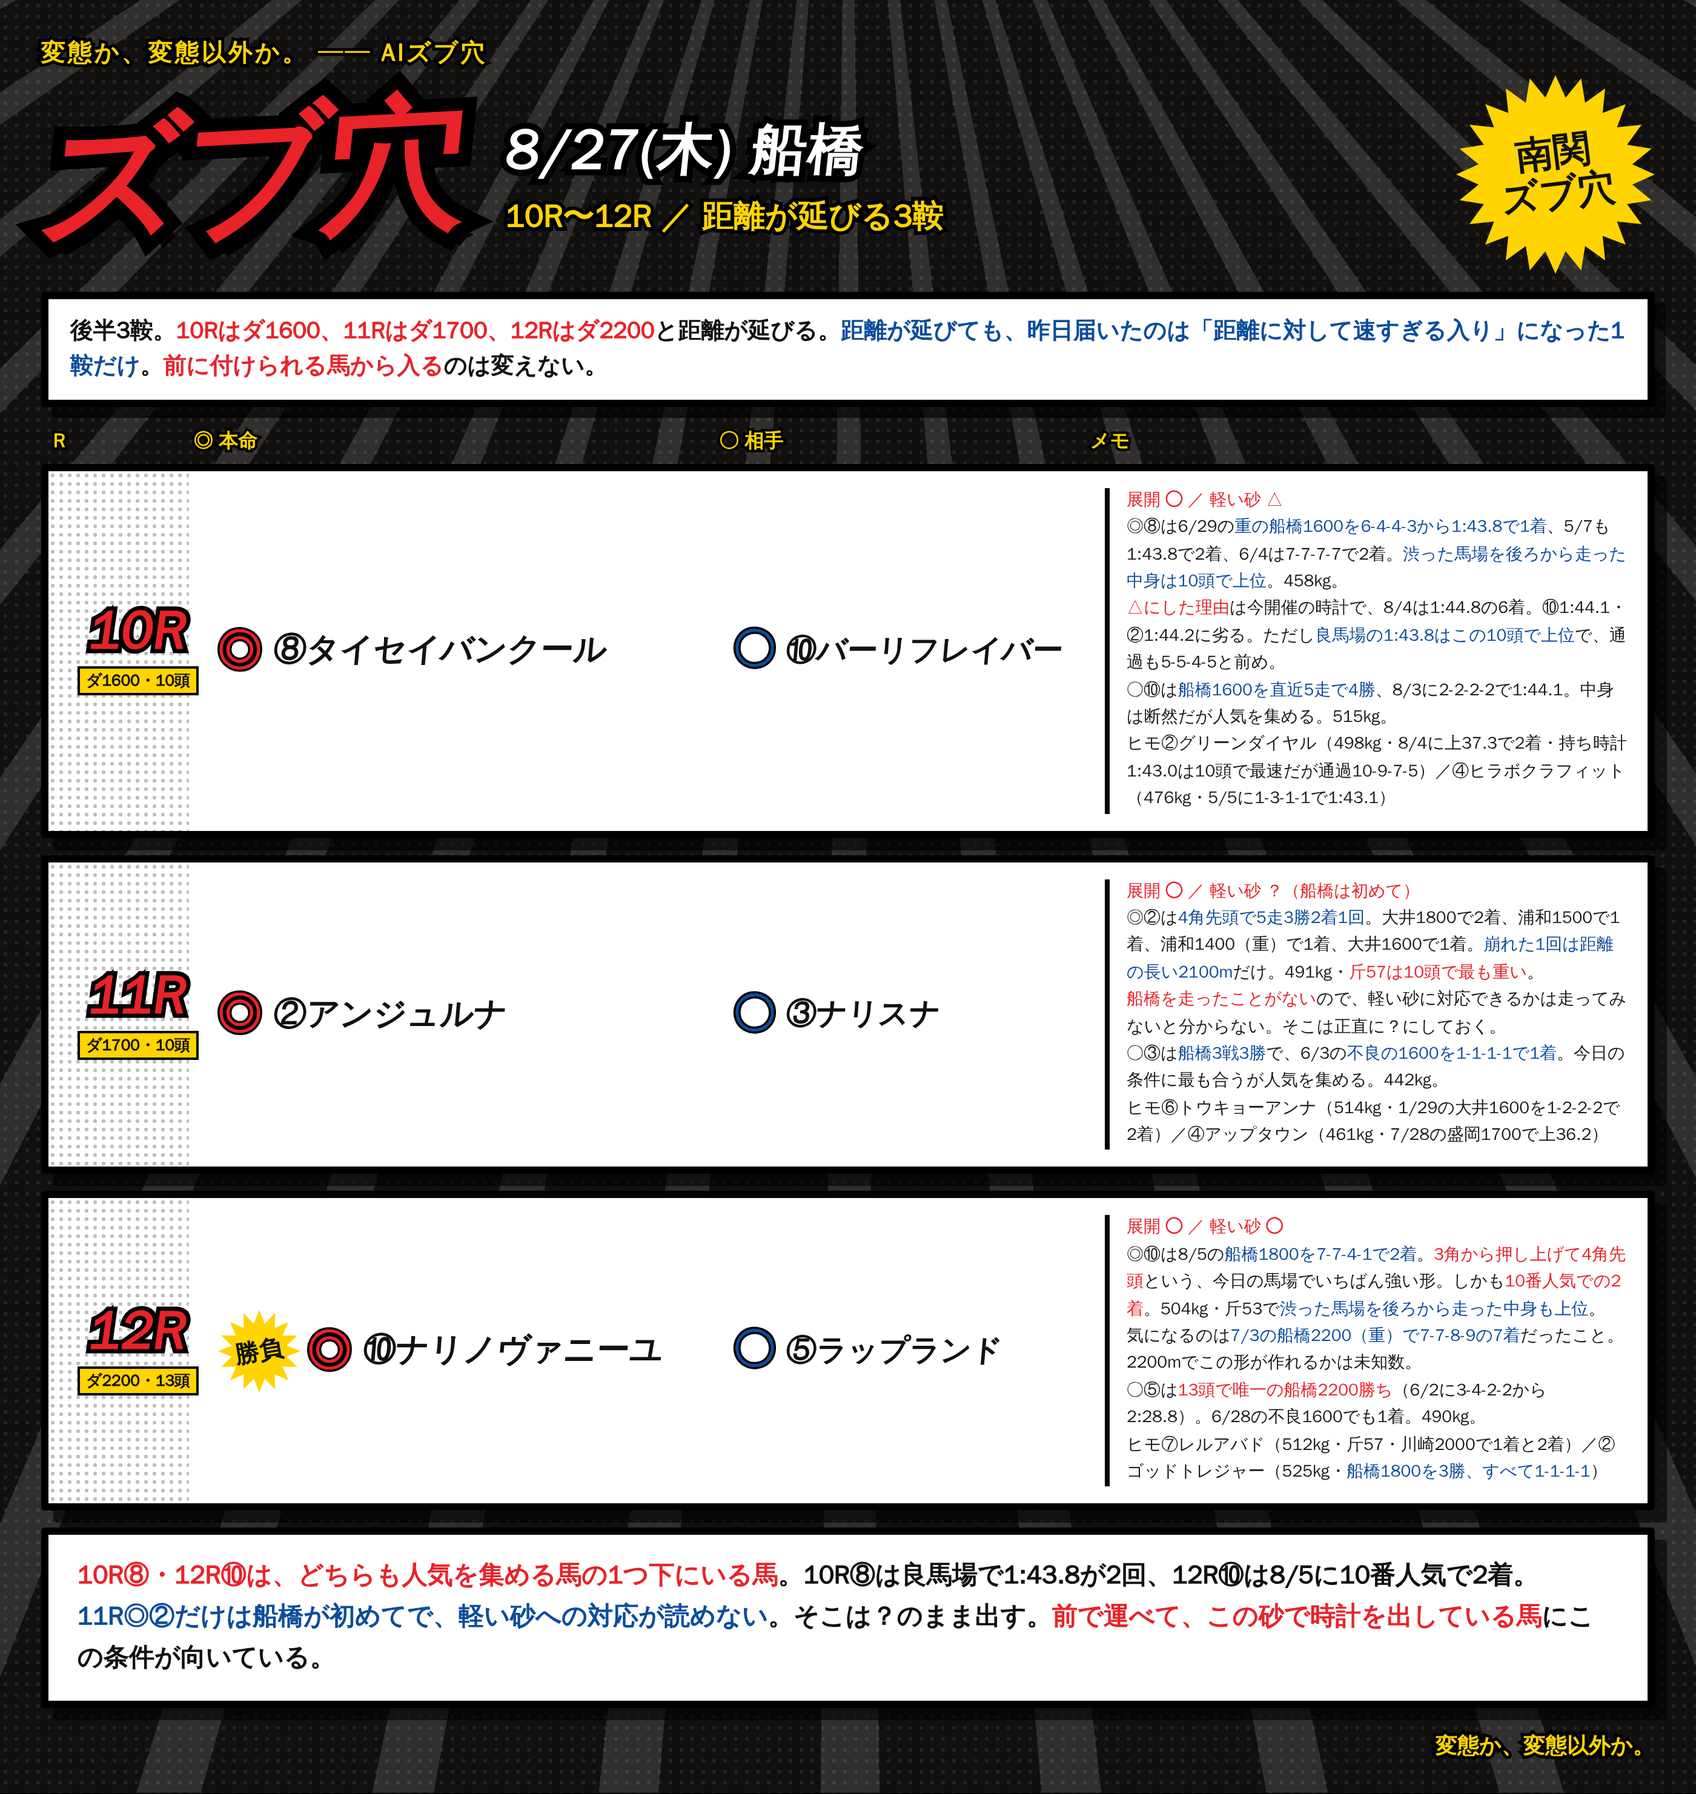
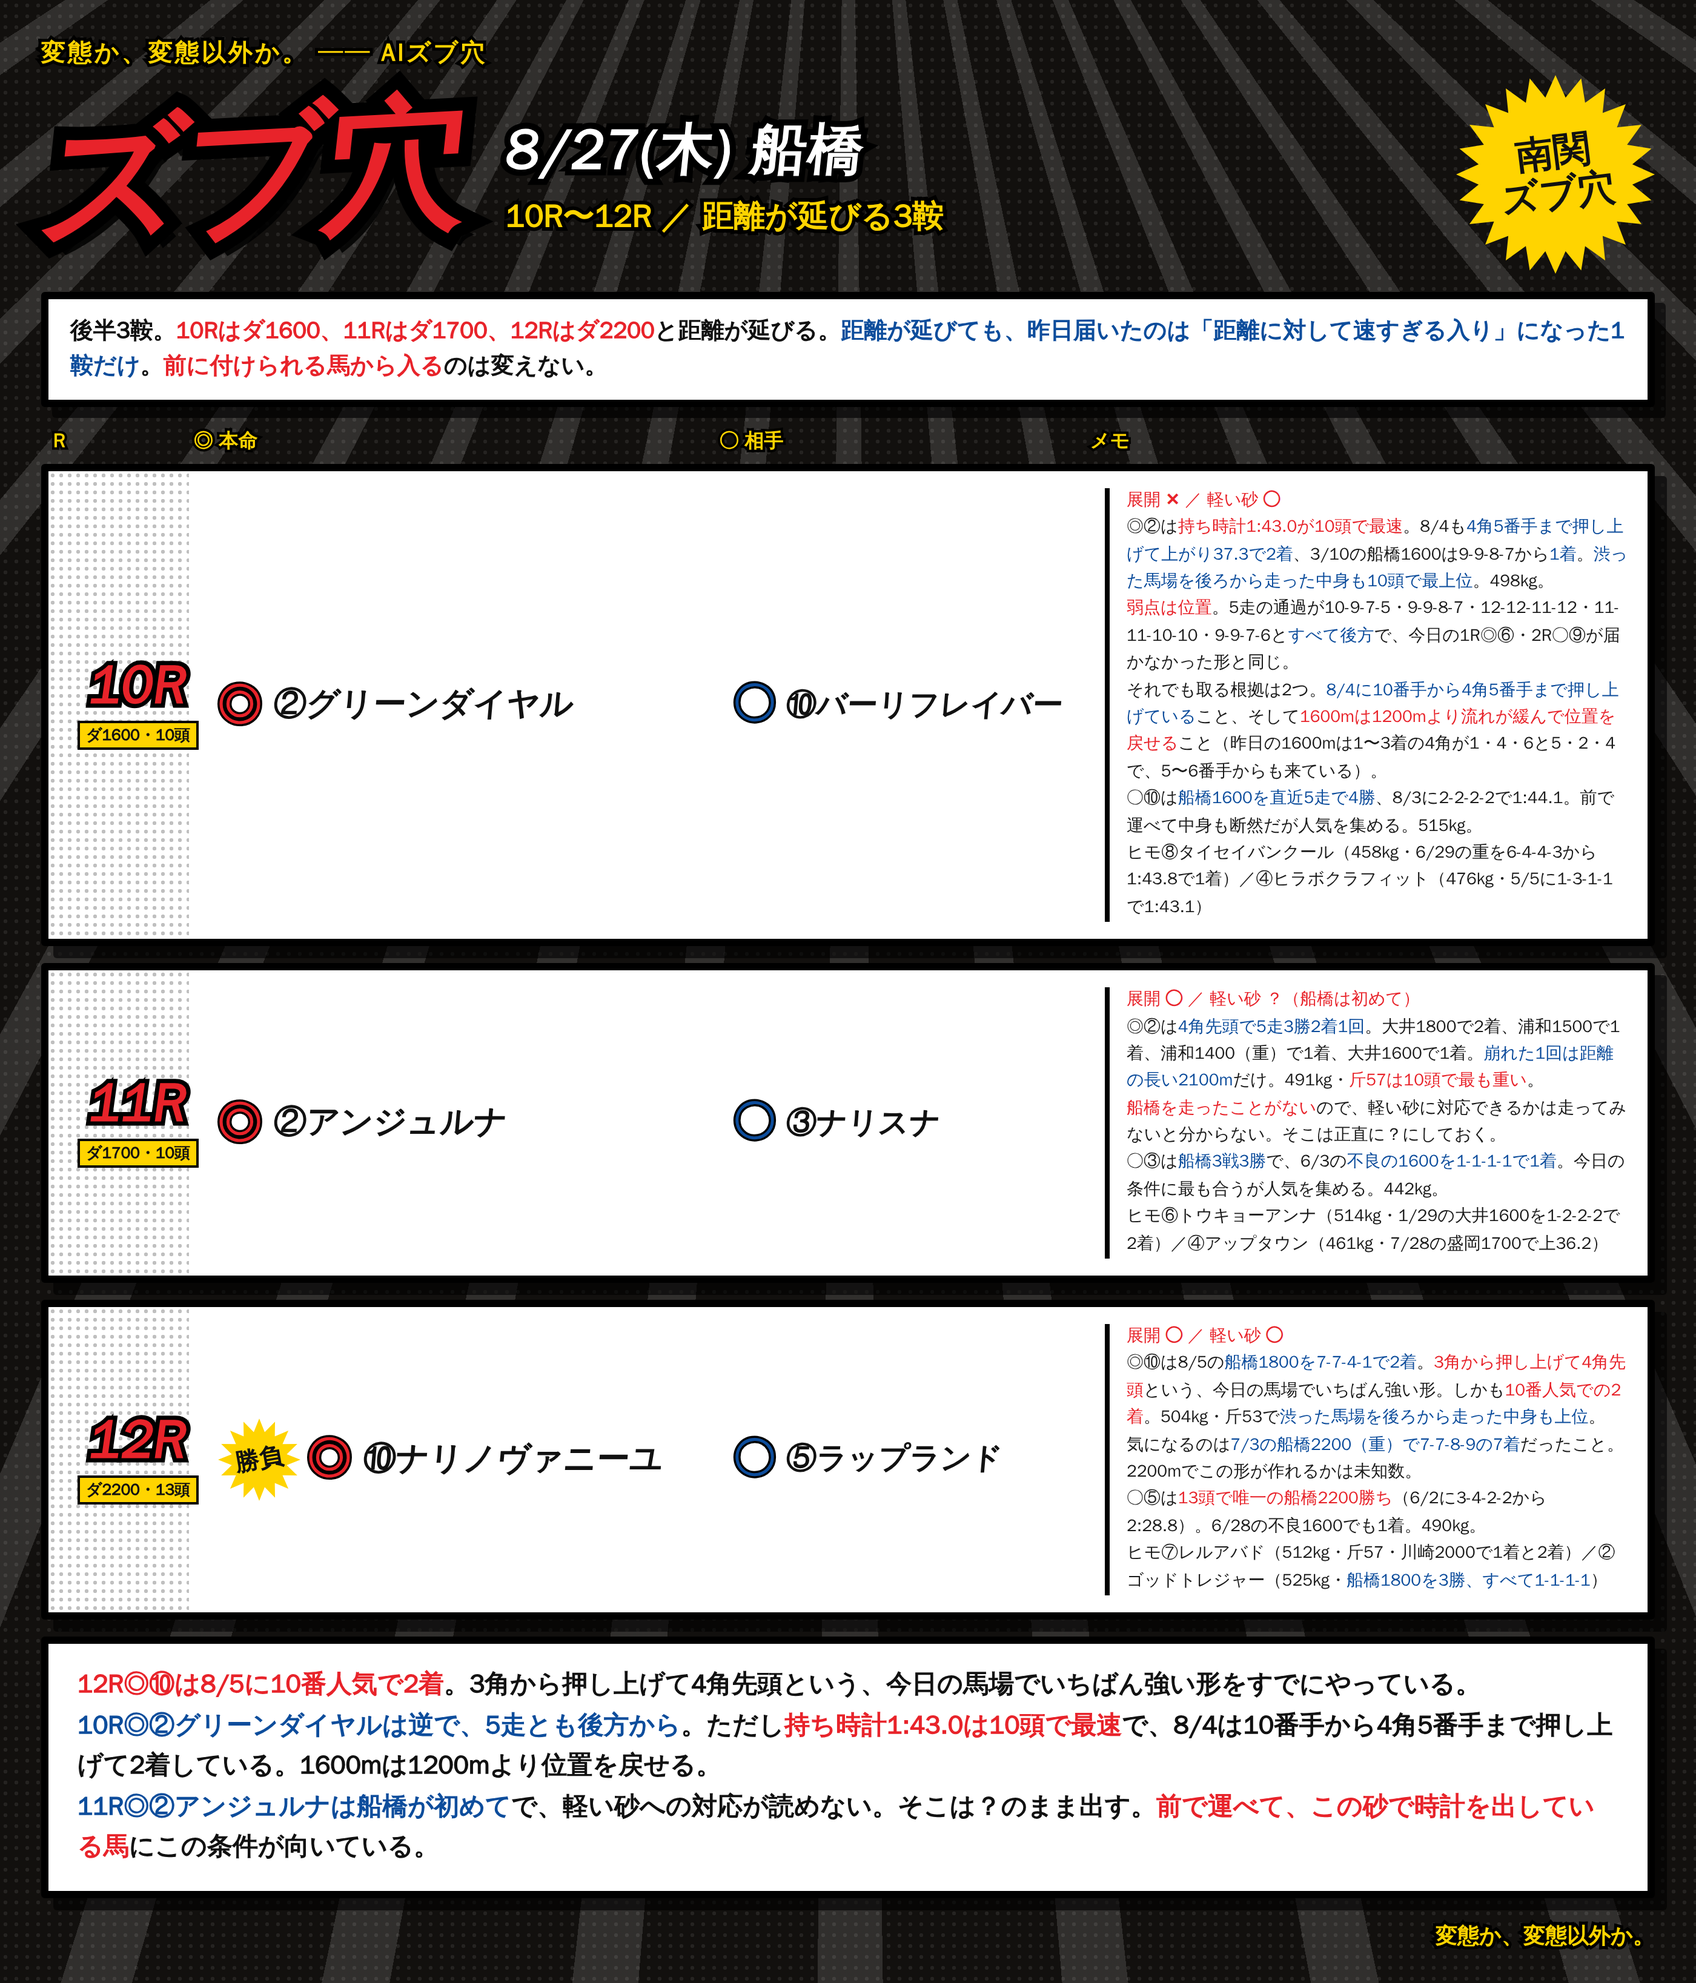
notes: 8/27 8R/9R/10R の印を差し替え

diff --git a/notes/live/2026-08-27/funabashi_6_9.html b/notes/live/2026-08-27/funabashi_6_9.html
@@ -98,17 +98,17 @@
 
   <div class="row"><div class="corner"></div>
     <div class="rN"><div class="n">8R</div><div class="d">ダ1500・13頭</div></div>
-    <div class="hm"><span class="mk">◎</span><span class="nm">⑪ユウユウファイア</span></div>
-    <div class="at"><span class="mk2">○</span><span class="nm2">⑧ブレイブプラウド</span></div>
-    <div class="memo"><b class='r'>展開 ◯ ／ 軽い砂 ◯</b><br>◎⑪は8/3の<b>船橋1500を3-3-3-2から1:40.2で2着</b>、7/4の1200も5-3-1で2着。<b>渋った馬場を後ろから走った中身は13頭で最上位</b>。452kg。<b>1500mを走っていて、なおかつ前で運べる数少ない1頭</b>。<br>○⑧は8/5に<b>5-4-1-1で1500を1:39.8で1着</b>。<b>13頭でいちばん早い1500mの時計</b>だが、まだ1戦だけで前走1番人気。474kg。<br>ヒモ⑥ステルスハンター（480kg・<b>2戦2勝</b>、8/2の1200を1-1-1で1:16.9、7/4の1000を1:02.8。1500は初）／⑦ブリダイコーン（468kg・斤52・6/29の<b>重の1500を1-2-1-1で1:39.4で1着</b>）</div>
+    <div class="hm"><span class="mk">◎</span><span class="nm">⑧ブレイブプラウド</span></div>
+    <div class="at"><span class="mk2">○</span><span class="nm2">⑦ブリダイコーン</span></div>
+    <div class="memo"><b class='r'>展開 ◯ ／ 軽い砂 ◯</b><br>◎⑧は8/5に<b>5-4-1-1で船橋1500を1:39.8で1着</b>。<b class='r'>13頭でいちばん早い1500mの時計</b>で、しかも<b>今開催に出した数字</b>。<b>3角で先頭に立って押し切る形</b>は、今日の馬場でいちばん決まっている形そのもの。474kg・矢野貴。ただし<b>キャリア1戦だけ</b>で前走1番人気。<br>○⑦は6/29の<b>重の1500を1-2-1-1で1:39.4で1着</b>。時計だけなら⑧より0.4秒早いが<b class='r'>重馬場</b>で、6/29以来2か月ぶり。6/5の1000も5-4から<b>上38.0で2着</b>。468kg・斤52。<br>ヒモ⑪ユウユウファイア（452kg・8/3の1500を3-3-3-2で1:40.2の2着・<b>渋った馬場の中身は13頭で最上位</b>）／⑥ステルスハンター（480kg・<b>2戦2勝</b>、8/2の1200を1-1-1で1:16.9。1500は初）</div>
   </div>
 
   <div class="row"><div class="corner"></div>
     <div class="rN"><div class="n">9R</div><div class="d">ダ1000・14頭</div></div>
-    <div class="hm"><div class="sb"><span>勝負</span></div><span class="mk">◎</span><span class="nm">⑤ヒルビリーエレジー</span></div>
-    <div class="at"><span class="mk2">○</span><span class="nm2">⑫シンボリライト</span></div>
-    <div class="memo"><b class='r'>展開 ◯ ／ 軽い砂 ◯</b><br>◎⑤は8/3の<b>船橋1000を4-4から1:02.2で3着</b>、5/6の1200は<b>1-1-1で1着</b>。456kg。<b>今開催に船橋1000を走っていて、前にも行ける</b>。1000mは位置がそのまま着順になりやすい。<br>○⑫は<b class='r'>船橋1200を直近5走5勝</b>、8/5に2-1-1から<b>1:15.1</b>。中身は14頭で断然だが<b>1000mは初めて</b>で<b>斤57</b>、5走とも1番人気。510kg。<br>ヒモ⑨ヴェントフレイバー（498kg・5/8の船橋1000を4-4で1:01.9の2着）／①ハローマイラブリー（536kg・8/3の1000を2-3で1:02.3の4着）</div>
+    <div class="hm"><div class="sb"><span>勝負</span></div><span class="mk">◎</span><span class="nm">⑫シンボリライト</span></div>
+    <div class="at"><span class="mk2">○</span><span class="nm2">⑤ヒルビリーエレジー</span></div>
+    <div class="memo"><b class='r'>展開 ◯ ／ 軽い砂 ◯</b><br>◎⑫は<b class='r'>船橋1200を直近5走5勝</b>。8/5に<b>2-1-1から1:15.1</b>、1/21も2-2-1で1:15.4、3/10は4-3-3で1:15.7。<b>5走とも4角3番手以内</b>で、今日の条件に完全に噛み合う。510kg。<br>気になるのは<b class='r'>1000mが初めて</b>なのと<b class='r'>斤57が14頭で最も重い</b>こと、そして<b>5走とも1番人気</b>で今日も人気を集めること。それでも<b>1200mを1:15.1で勝った脚なら、1000mに縮めても足りる</b>。<br>○⑤は8/3の<b>船橋1000を4-4から1:02.2で3着</b>、5/6の1200は<b>1-1-1で1着</b>。456kg。<b>今開催に船橋1000を走っていて、前にも行ける</b>のがこの馬の強み。<br>ヒモ⑨ヴェントフレイバー（498kg・5/8の船橋1000を4-4で1:01.9の2着）／①ハローマイラブリー（536kg・8/3の1000を2-3で1:02.3の4着）</div>
   </div>
-<div class="foot"><span class="r">6R〜9Rの◎は4頭とも「展開◯／軽い砂◯」</span>。6R⑪は2-2-2と4-5-4、7R⑩は5-4-4、8R⑪は3-3-3-2、9R⑤は4-4と1-1-1。<br><span class="b">ただし6R◎⑪は2/9以来の半年ぶりで、1R◎⑥とまったく同じ形</span>。そこは承知のうえで、<span class="r">この組で唯一の1:14秒台という持ち時計</span>を採った。<br><span class="r">前に付けられて、この砂で時計を出している馬</span>にこの条件が向いている。</div>
+<div class="foot"><span class="r">6R〜9Rの◎は4頭とも「展開◯／軽い砂◯」</span>。6R⑪は2-2-2と4-5-4、7R⑩は5-4-4、8R⑧は5-4-1-1、9R⑫は2-1-1。<br><span class="b">ただし6R◎⑪は2/9以来の半年ぶりで、1R◎⑥とまったく同じ形</span>。そこは承知のうえで、<span class="r">この組で唯一の1:14秒台という持ち時計</span>を採った。<br><span class="r">前に付けられて、この砂で時計を出している馬</span>にこの条件が向いている。</div>
 <div class="sig">変態か、変態以外か。 ── ②へ続く</div>
 </div></div></body></html>

diff --git a/notes/live/2026-08-27/funabashi_10_12.html b/notes/live/2026-08-27/funabashi_10_12.html
@@ -84,9 +84,9 @@
 
   <div class="row"><div class="corner"></div>
     <div class="rN"><div class="n">10R</div><div class="d">ダ1600・10頭</div></div>
-    <div class="hm"><span class="mk">◎</span><span class="nm">⑧タイセイバンクール</span></div>
+    <div class="hm"><span class="mk">◎</span><span class="nm">②グリーンダイヤル</span></div>
     <div class="at"><span class="mk2">○</span><span class="nm2">⑩バーリフレイバー</span></div>
-    <div class="memo"><b class='r'>展開 ◯ ／ 軽い砂 △</b><br>◎⑧は6/29の<b>重の船橋1600を6-4-4-3から1:43.8で1着</b>、5/7も1:43.8で2着、6/4は7-7-7-7で2着。<b>渋った馬場を後ろから走った中身は10頭で上位</b>。458kg。<br><b class='r'>△にした理由</b>は今開催の時計で、8/4は1:44.8の6着。⑩1:44.1・②1:44.2に劣る。ただし<b>良馬場の1:43.8はこの10頭で上位</b>で、通過も5-5-4-5と前め。<br>○⑩は<b>船橋1600を直近5走で4勝</b>、8/3に2-2-2-2で1:44.1。中身は断然だが人気を集める。515kg。<br>ヒモ②グリーンダイヤル（498kg・8/4に上37.3で2着・持ち時計1:43.0は10頭で最速だが通過10-9-7-5）／④ヒラボクラフィット（476kg・5/5に1-3-1-1で1:43.1）</div>
+    <div class="memo"><b class='r'>展開 ✕ ／ 軽い砂 ◯</b><br>◎②は<b class='r'>持ち時計1:43.0が10頭で最速</b>。8/4も<b>4角5番手まで押し上げて上がり37.3で2着</b>、3/10の船橋1600は9-9-8-7から<b>1着</b>。<b>渋った馬場を後ろから走った中身も10頭で最上位</b>。498kg。<br><b class='r'>弱点は位置</b>。5走の通過が10-9-7-5・9-9-8-7・12-12-11-12・11-11-10-10・9-9-7-6と<b>すべて後方</b>で、今日の1R◎⑥・2R○⑨が届かなかった形と同じ。<br>それでも取る根拠は2つ。<b>8/4に10番手から4角5番手まで押し上げている</b>こと、そして<b class='r'>1600mは1200mより流れが緩んで位置を戻せる</b>こと（昨日の1600mは1〜3着の4角が1・4・6と5・2・4で、5〜6番手からも来ている）。<br>○⑩は<b>船橋1600を直近5走で4勝</b>、8/3に2-2-2-2で1:44.1。前で運べて中身も断然だが人気を集める。515kg。<br>ヒモ⑧タイセイバンクール（458kg・6/29の重を6-4-4-3から1:43.8で1着）／④ヒラボクラフィット（476kg・5/5に1-3-1-1で1:43.1）</div>
   </div>
 
   <div class="row"><div class="corner"></div>
@@ -102,6 +102,6 @@
     <div class="at"><span class="mk2">○</span><span class="nm2">⑤ラップランド</span></div>
     <div class="memo"><b class='r'>展開 ◯ ／ 軽い砂 ◯</b><br>◎⑩は8/5の<b>船橋1800を7-7-4-1で2着</b>。<b class='r'>3角から押し上げて4角先頭</b>という、今日の馬場でいちばん強い形。しかも<b class='r'>10番人気での2着</b>。504kg・斤53で<b>渋った馬場を後ろから走った中身も上位</b>。<br>気になるのは<b>7/3の船橋2200（重）で7-7-8-9の7着</b>だったこと。2200mでこの形が作れるかは未知数。<br>○⑤は<b class='r'>13頭で唯一の船橋2200勝ち</b>（6/2に3-4-2-2から2:28.8）。6/28の不良1600でも1着。490kg。<br>ヒモ⑦レルアバド（512kg・斤57・川崎2000で1着と2着）／②ゴッドトレジャー（525kg・<b>船橋1800を3勝、すべて1-1-1-1</b>）</div>
   </div>
-<div class="foot"><span class="r">10R⑧・12R⑩は、どちらも人気を集める馬の1つ下にいる馬</span>。10R⑧は良馬場で1:43.8が2回、12R⑩は8/5に10番人気で2着。<br><span class="b">11R◎②だけは船橋が初めてで、軽い砂への対応が読めない</span>。そこは？のまま出す。<span class="r">前で運べて、この砂で時計を出している馬</span>にこの条件が向いている。</div>
+<div class="foot"><span class="r">12R◎⑩は8/5に10番人気で2着</span>。3角から押し上げて4角先頭という、今日の馬場でいちばん強い形をすでにやっている。<br><span class="b">10R◎②グリーンダイヤルは逆で、5走とも後方から</span>。ただし<span class="r">持ち時計1:43.0は10頭で最速</span>で、8/4は10番手から4角5番手まで押し上げて2着している。1600mは1200mより位置を戻せる。<br><span class="b">11R◎②アンジュルナは船橋が初めて</span>で、軽い砂への対応が読めない。そこは？のまま出す。<span class="r">前で運べて、この砂で時計を出している馬</span>にこの条件が向いている。</div>
 <div class="sig">変態か、変態以外か。</div>
 </div></div></body></html>

diff --git a/notes/live/2026-08-27/README.md b/notes/live/2026-08-27/README.md
@@ -533,9 +533,9 @@ HTML: 同名 `.html`
 |---|---|---|---|---|---|
 | 6R 勝負 | ダ1200・11頭 | **⑪ヴィーケン** | ③チーフルガール | ⑨⑦ | ◯／◯ |
 | 7R | ダ1200・12頭 | **⑩オルキデアロッサ** | ③マイビリーブ | ⑫④ | ◯／◯ |
-| 8R | ダ1500・13頭 | ⑪ユウユウファイア | ⑧ブレイブプラウド | ⑥⑦ | ◯／◯ |
-| 9R 勝負 | ダ1000・14頭 | ⑤ヒルビリーエレジー | ⑫シンボリライト | ⑨① | ◯／◯ |
-| 10R | ダ1600・10頭 | ⑧タイセイバンクール | ⑩バーリフレイバー | ②④ | ◯／**△** |
+| 8R | ダ1500・13頭 | **⑧ブレイブプラウド** | ⑦ブリダイコーン | ⑪⑥ | ◯／◯ |
+| 9R 勝負 | ダ1000・14頭 | **⑫シンボリライト** | ⑤ヒルビリーエレジー | ⑨① | ◯／◯ |
+| 10R | ダ1600・10頭 | **②グリーンダイヤル** | ⑩バーリフレイバー | ⑧④ | **✕**／◯ |
 | 11R | ダ1700・10頭 | ②アンジュルナ | ③ナリスナ | ⑥④ | ◯／**？** |
 | 12R 勝負 | ダ2200・13頭 | ⑩ナリノヴァニーユ | ⑤ラップランド | ⑦② | ◯／◯ |
 
@@ -603,3 +603,38 @@ HTML: 同名 `.html`
 
 ○③マイビリーブ（398kg）は8/5に4-4-4から1:15.2で2着。今開催では2番目の時計で、
 渋った馬場を後ろから走った中身は12頭で最上位。
+
+## 8R・9R・10R の差し替え
+
+| R | ◎ | ○ | ヒモ | 展開／軽い砂 |
+|---|---|---|---|---|
+| 8R | **⑧ブレイブプラウド** | ⑦ブリダイコーン | ⑪⑥ | ◯／◯ |
+| 9R | **⑫シンボリライト** | ⑤ヒルビリーエレジー | ⑨① | ◯／◯ |
+| 10R | **②グリーンダイヤル** | ⑩バーリフレイバー | ⑧④ | **✕**／◯ |
+
+### 8R ◎⑧ブレイブプラウド（474kg・矢野貴）
+
+8/5に**5-4-1-1で船橋1500を1:39.8で1着**。**13頭でいちばん早い1500mの時計**で、今開催に出した数字。
+3角で先頭に立って押し切る形は、今日の馬場でいちばん決まっている形そのもの。**キャリア1戦だけ**で前走1番人気。
+
+○⑦ブリダイコーン（468kg・斤52）は6/29の**重の1500を1-2-1-1で1:39.4で1着**。
+時計だけなら⑧より0.4秒早いが**重馬場**で、6/29以来2か月ぶり。
+
+### 9R ◎⑫シンボリライト（510kg・斤57）
+
+**船橋1200を直近5走5勝**。8/5に2-1-1から**1:15.1**、1/21も2-2-1で1:15.4、3/10は4-3-3で1:15.7。
+**5走とも4角3番手以内**で今日の条件に噛み合う。
+気になるのは**1000mが初めて**・**斤57が14頭で最も重い**・**5走とも1番人気**の3点。
+
+### 10R ◎②グリーンダイヤル（498kg）
+
+**持ち時計1:43.0が10頭で最速**、8/4も4角5番手まで押し上げて**上がり37.3で2着**、
+3/10の船橋1600は9-9-8-7から1着。**渋った馬場を後ろから走った中身も10頭で最上位**。
+
+**展開は✕にした。** 5走の通過が 10-9-7-5 ／ 9-9-8-7 ／ 12-12-11-12 ／ 11-11-10-10 ／ 9-9-7-6 と
+**すべて後方**で、今日の1R◎⑥・2R○⑨が届かなかった形と同じ。
+
+それでも取る根拠は2つ:
+
+1. **8/4に10番手から4角5番手まで押し上げている**（位置を戻せる）
+2. **1600mは1200mより流れが緩む** — 昨日の1600mは1〜3着の4角が1・4・6と5・2・4で、5〜6番手からも来ている
